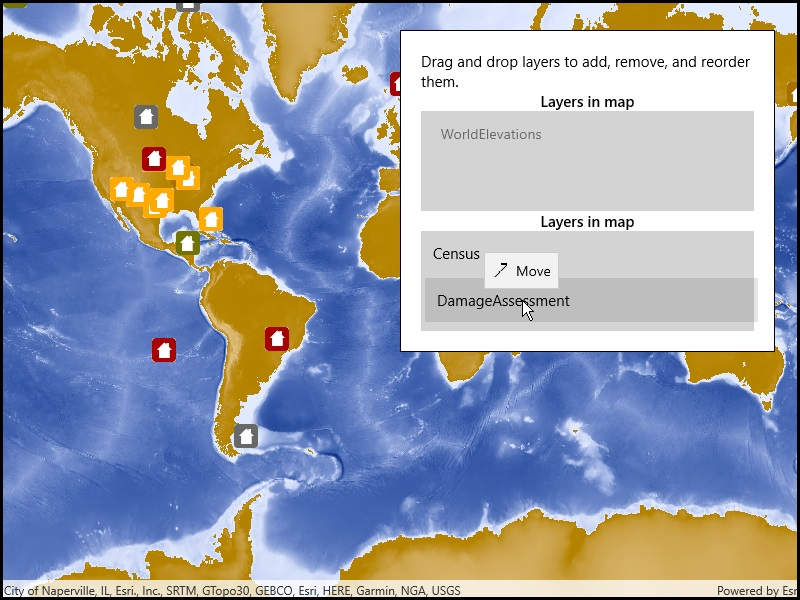
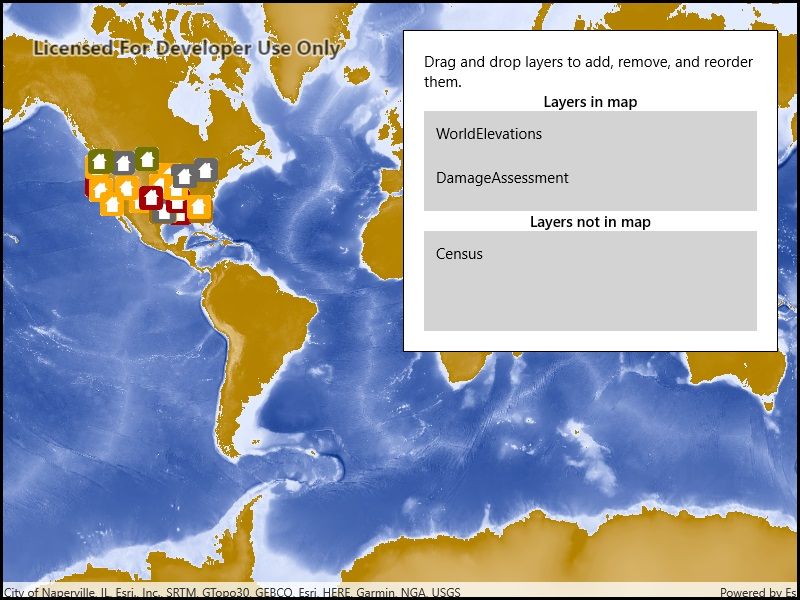
Changes for review feedback

diff --git a/src/WPF/ArcGISRuntime.WPF.Viewer/Samples/Map/ManageOperationalLayers/ManageOperationalLayers.xaml b/src/WPF/ArcGISRuntime.WPF.Viewer/Samples/Map/ManageOperationalLayers/ManageOperationalLayers.xaml
@@ -25,6 +25,7 @@
                          ItemTemplate="{StaticResource LayerListTemplate}"
                          ItemContainerStyle="{StaticResource LayerListBoxItemStyle}"
                          AllowDrop="True"
+                         MinHeight="100"
                          Drop="ListBoxItem_OnDrop" />
                 <Label Content="Layers not in map"
                        HorizontalContentAlignment="Center"
@@ -34,6 +35,7 @@
                          ItemTemplate="{StaticResource LayerListTemplate}"
                          ItemContainerStyle="{StaticResource LayerListBoxItemStyle}"
                          AllowDrop="True"
+                         MinHeight="100"
                          Drop="ListBoxItem_OnDrop" />
             </StackPanel>
         </Border>

diff --git a/src/UWP/ArcGISRuntime.UWP.Viewer/Samples/Map/ManageOperationalLayers/ManageOperationalLayers.xaml b/src/UWP/ArcGISRuntime.UWP.Viewer/Samples/Map/ManageOperationalLayers/ManageOperationalLayers.xaml
@@ -33,7 +33,7 @@
                           DragOver="ListBox_OnDragOver"
                           Drop="ListBox_OnDrop"
                           DragItemsStarting="ListBox_OnDragItemsStarting" />
-                <TextBlock Text="Layers in map"
+                <TextBlock Text="Layers not in map"
                            TextAlignment="Center"
                            FontWeight="SemiBold" />
                 <ListView Style="{StaticResource LayerListStyle}"

diff --git a/src/Forms/Shared/Samples/Map/ManageOperationalLayers/ManageOperationalLayers.xaml.cs b/src/Forms/Shared/Samples/Map/ManageOperationalLayers/ManageOperationalLayers.xaml.cs
@@ -53,38 +53,62 @@ namespace ArcGISRuntimeXamarin.Samples.ManageOperationalLayers
 
         private void MoveButton_OnClicked(object sender, EventArgs e)
         {
-            // Get the clicked button.
-            Button clickedButton = (Button) sender;
+            try
+            {
+                // Get the clicked button.
+                Button clickedButton = (Button) sender;
 
-            // Get the clicked layer.
-            Layer clickedLayer = (Layer) clickedButton.BindingContext;
+                // Get the clicked layer.
+                Layer clickedLayer = (Layer) clickedButton.BindingContext;
 
-            // Move the layer.
-            _viewModel.MoveLayer(clickedLayer);
+                // Move the layer.
+                _viewModel.MoveLayer(clickedLayer);
+            }
+            // Sometimes if the user clicks too quickly NREs will occur.
+            catch (NullReferenceException exception)
+            {
+                Console.WriteLine(exception);
+            }
         }
 
         private void DemoteButton_Clicked(object sender, EventArgs e)
         {
-            // Get the clicked button.
-            Button clickedButton = (Button) sender;
+            try
+            {
+                // Get the clicked button.
+                Button clickedButton = (Button) sender;
 
-            // Get the clicked layer.
-            Layer clickedLayer = (Layer) clickedButton.BindingContext;
+                // Get the clicked layer.
+                Layer clickedLayer = (Layer) clickedButton.BindingContext;
 
-            // Move the layer.
-            _viewModel.DemoteLayer(clickedLayer);
+                // Move the layer.
+                _viewModel.DemoteLayer(clickedLayer);
+            }
+            // Sometimes if the user clicks too quickly NREs will occur.
+            catch (NullReferenceException exception)
+            {
+                Console.WriteLine(exception);
+            }
         }
 
         private void PromoteButton_Clicked(object sender, EventArgs e)
         {
-            // Get the clicked button.
-            Button clickedButton = (Button) sender;
+            try
+            {
+                // Get the clicked button.
+                Button clickedButton = (Button) sender;
 
-            // Get the clicked layer.
-            Layer clickedLayer = (Layer) clickedButton.BindingContext;
+                // Get the clicked layer.
+                Layer clickedLayer = (Layer) clickedButton.BindingContext;
 
-            // Move the layer.
-            _viewModel.PromoteLayer(clickedLayer);
+                // Move the layer.
+                _viewModel.PromoteLayer(clickedLayer);
+            }
+            // Sometimes if the user clicks too quickly NREs will occur.
+            catch (NullReferenceException exception)
+            {
+                Console.WriteLine(exception);
+            }
         }
     }
 
